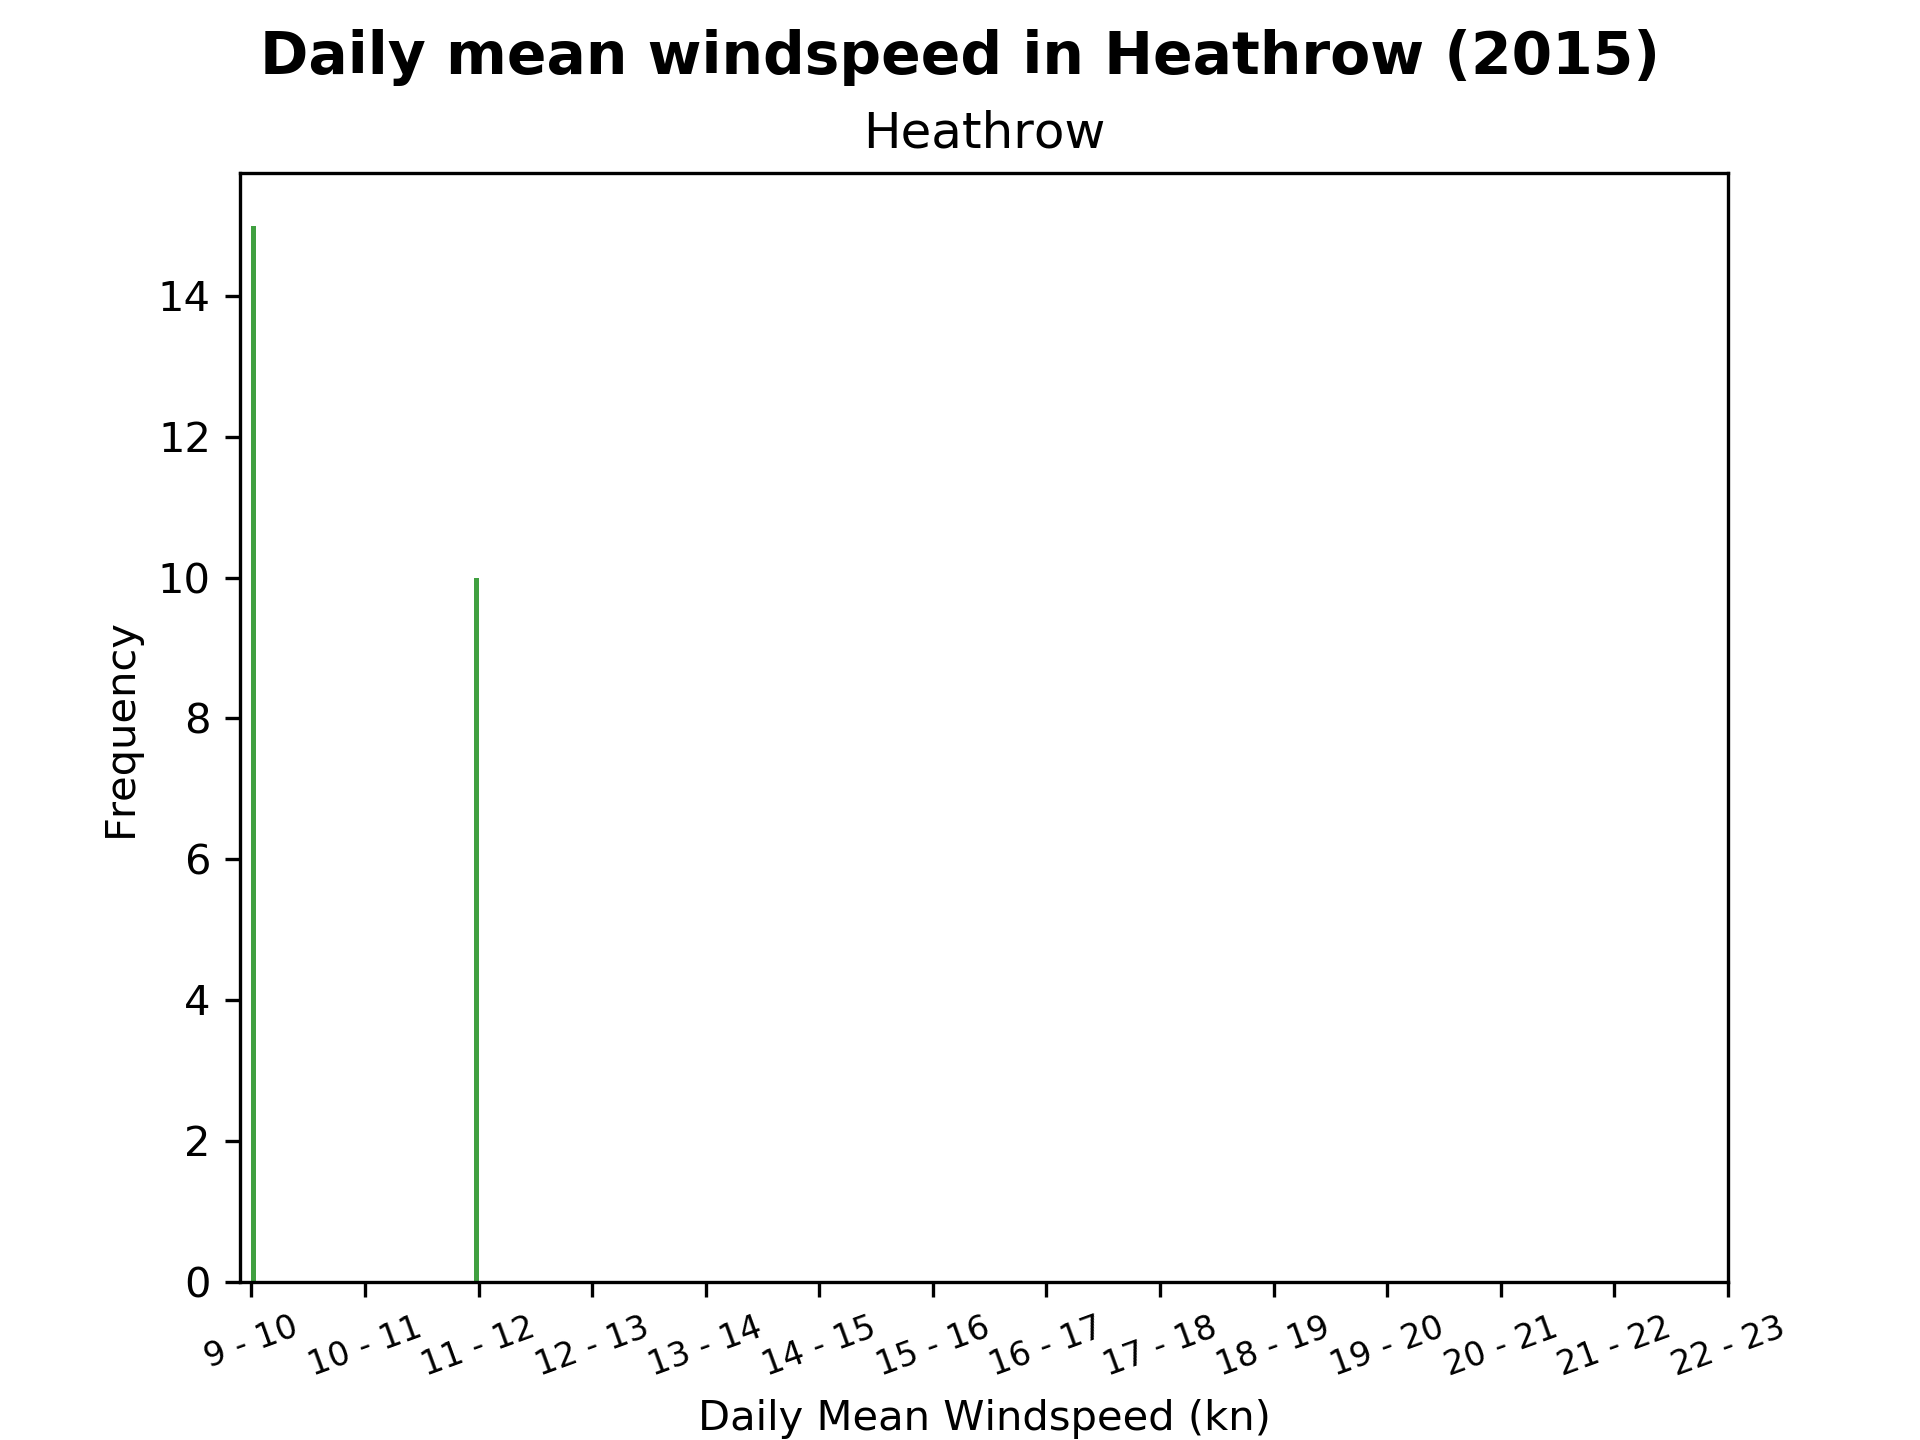
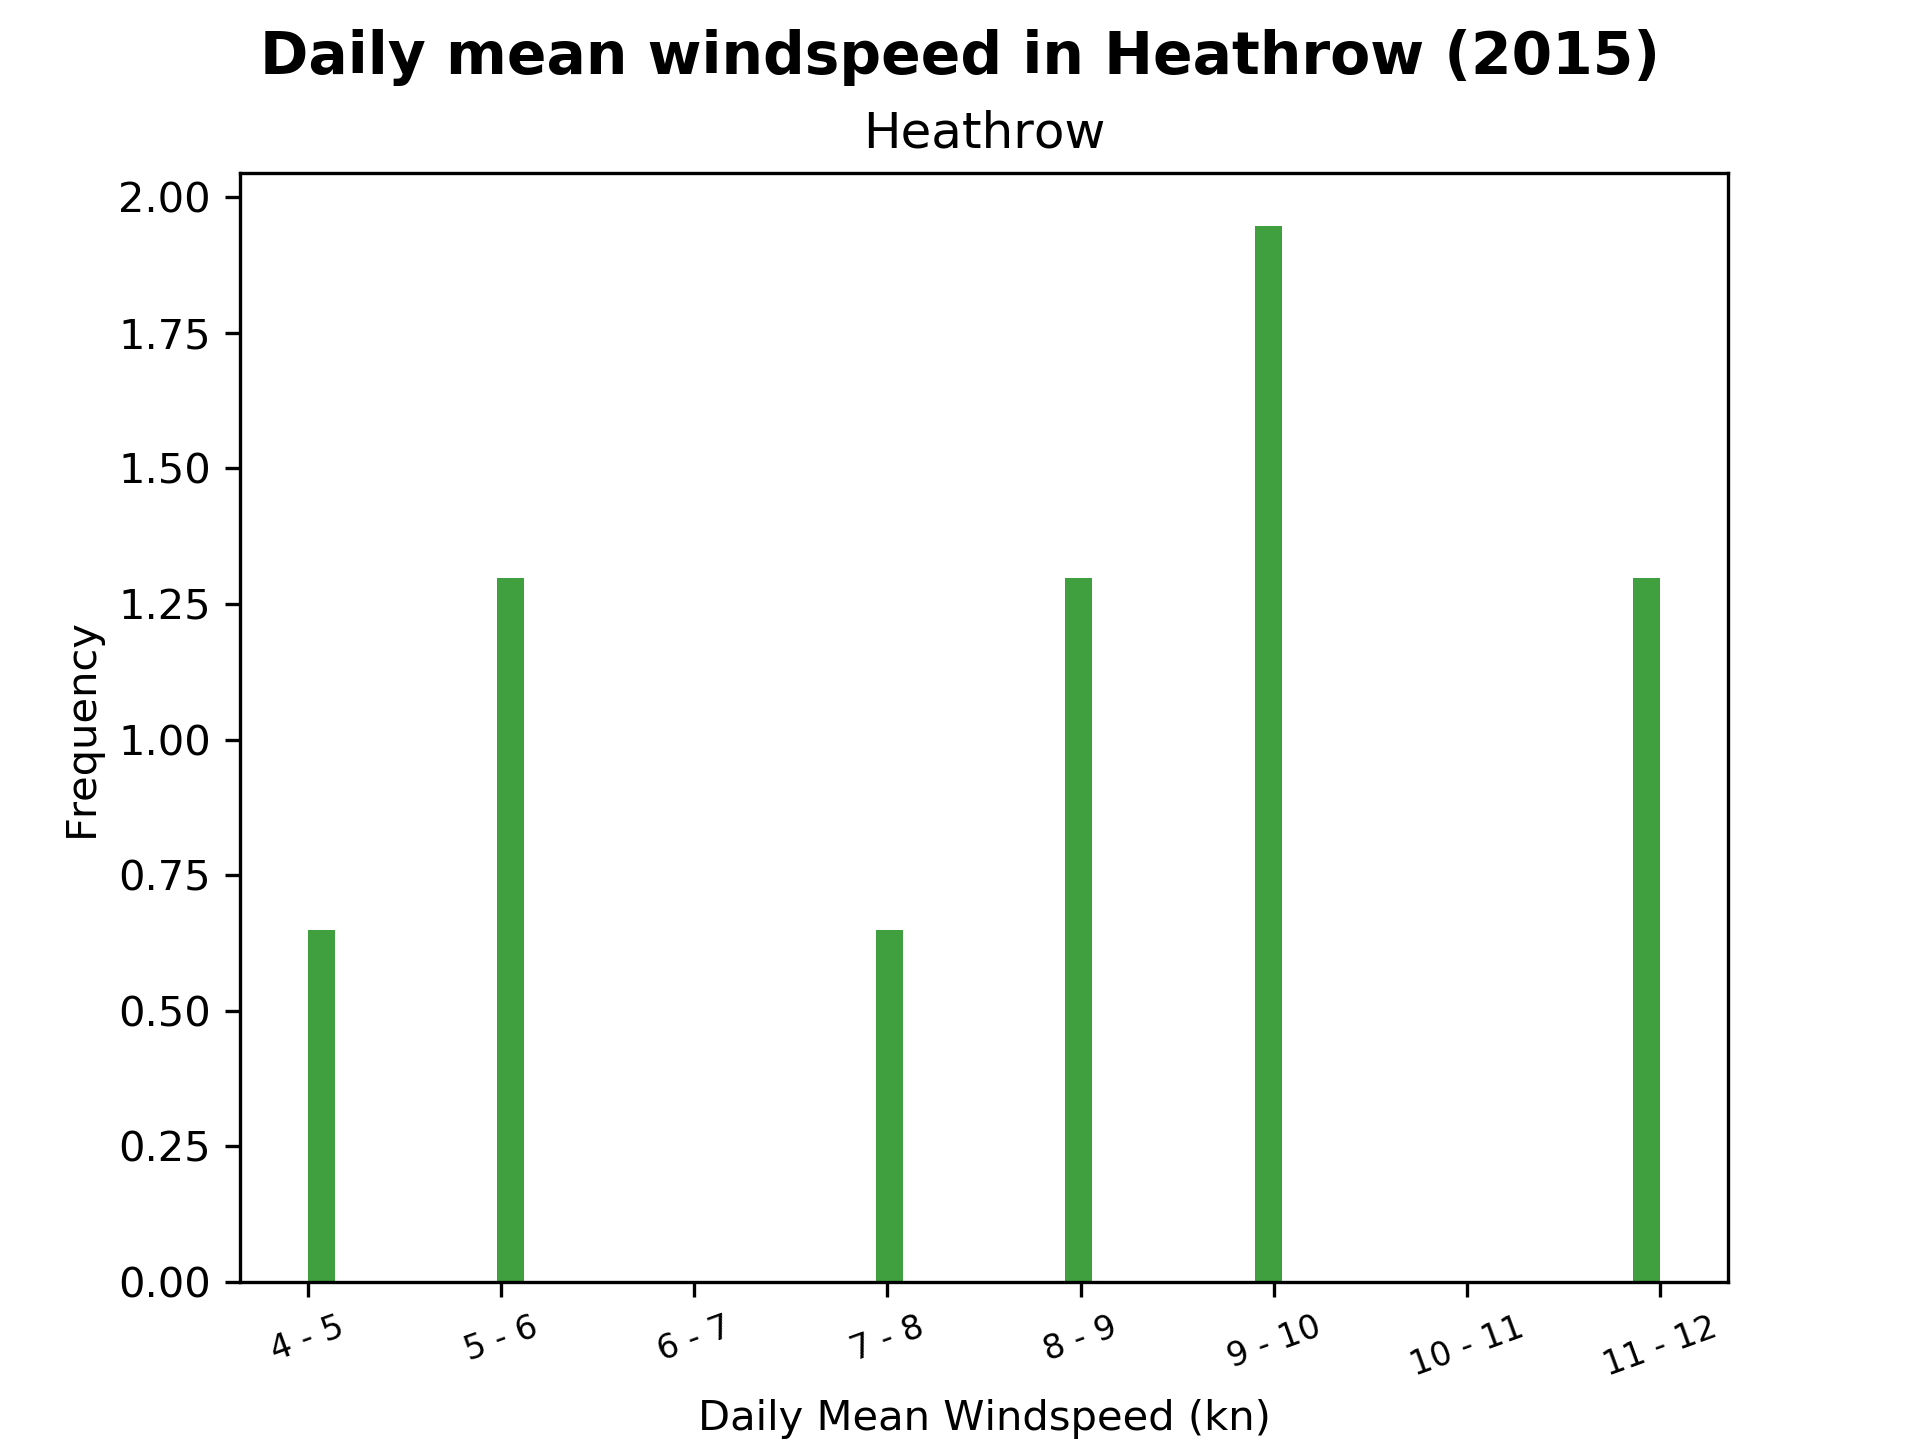
Completed and fixed histograms

diff --git a/plot_scripts/histogram.py b/plot_scripts/histogram.py
@@ -13,7 +13,6 @@ def format_values(towns, town, index, intervals):
     ]
     std = numpy.std(values)
     mean = numpy.mean(values)
-
     for datum in towns[town]:
         if abs(mean - datum[index]) <= std * 2:
             for (low, high), value in intervals.items():
@@ -131,28 +130,28 @@ def plot(towns):
     ax.set_xlabel('Daily Mean Windspeed (kn)')
     ax.set_title('Heathrow')
     intervals = {
-        (9, 10): 1,
-        (10, 11): 2,
-        (11, 12): 3,
-        (12, 13): 4,
-        (13, 14): 5,
-        (14, 15): 6,
-        (15, 16): 7,
-        (16, 17): 8,
-        (17, 18): 9,
-        (18, 19): 10,
-        (19, 20): 11,
-        (20, 21): 12,
-        (21, 22): 13,
-        (22, 23): 14
+        (4, 5): 1,
+        (5, 6): 2,
+        (6, 7): 3,
+        (7, 8): 4,
+        (8, 9): 5,
+        (9, 10): 6,
+        (10, 11): 7,
+        (11, 12): 8,
+        (12, 13): 9,
+        (13, 14): 10,
+        (14, 15): 11,
+        (15, 16): 12,
+        (16, 17): 13,
+        (17, 18): 14,
+        (18, 19): 15
     }
     standard, outliers = format_values(towns, 'heathrow', 2, intervals)
     n, bins, patches = plt.hist(
         standard, 50, normed=1, facecolor='green', alpha=0.75
     )
-    plt.xticks(range(1, 15), [
-        '9 - 10', '10 - 11', '11 - 12', '12 - 13', '13 - 14', '14 - 15',
-        '15 - 16', '16 - 17', '17 - 18', '18 - 19', '19 - 20', '20 - 21',
-        '21 - 22', '22 - 23'
+    plt.xticks(range(1, 9), [
+        '4 - 5', '5 - 6', '6 - 7', '7 - 8', '8 - 9', '9 - 10', '10 - 11',
+        '11 - 12'
     ], rotation=20, fontsize=8)
     plt.savefig('images/histogram/heathrow/windspeed.png', dpi=300)
